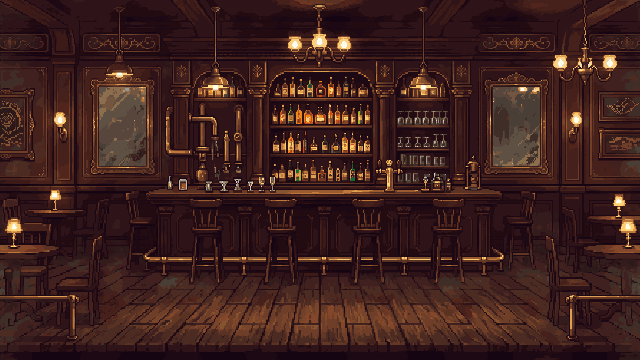
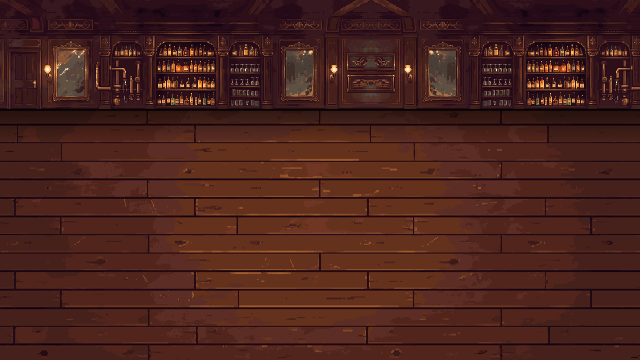
Бар «Härtezeichen» — вид чуть сверху (как Undertale): низкая стена с подсвеченными бутылками, большой пол, стойка, табуреты и столы — предметы в рост рыцаря; у комнаты своя линия пола и глубина (floorTop, depth, tileLine)
Claude-Session: https://claude.ai/code/session_01NZaKJV7VXAQHZfGwN3MbH5

diff --git a/src/background.js b/src/background.js
@@ -21,7 +21,7 @@ const DECOR_IMG = {
 const PROP_IMG = { barrel: 1, crate: 2, sack: 1, chest: 1, bones: 2,
   sofa: 1, table: 1, chair: 1, armchair: 1, pew: 1, bench: 1, desk: 1, stool: 1, guardtable: 1, stall: 1, rug: 1,
   bedroll: 1, pot: 1, letter: 1, candles: 1, lute: 1, logbook: 1, bouquet: 1, loot: 1, fabric: 1, papers: 1, bookpile: 1, tripod: 1, pack: 1 };
-export const OBJECTS = ['prop_fountain', 'cam_glasses', 'cam_glasses_buzz', 'cam_redhead', 'cam_merc', 'prop_town_bench', 'prop_bar_table', 'prop_telescope', 'prop_log_seat', 'npc_bartender', 'vil_0', 'vil_1', 'vil_2', 'vil_3', 'vil_4', 'vil_5', 'vil_6', 'vil_7', 'vil_8', 'vil_9', 'vil_10', 'vil_11', 'vil_12', 'vil_13', 'vil_14', 'vil_15', 'vils_0', 'vils_1', 'vils_2', 'vils_3', 'vils_4', 'vils_5', 'vils_6', 'vils_7', 'vils_8', 'vils_9', 'vils_10', 'vils_12', 'vils_13', 'vils_14', 'vils_15',   // город главы 2 (v0.98): предметы площади, горожане (временные — потом камео)
+export const OBJECTS = ['prop_fountain', 'prop_bar_rug', 'prop_bar_counter', 'prop_bar_stool', 'prop_tavern_table', 'cam_glasses', 'cam_glasses_buzz', 'cam_redhead', 'cam_merc', 'prop_town_bench', 'prop_bar_table', 'prop_telescope', 'prop_log_seat', 'npc_bartender', 'vil_0', 'vil_1', 'vil_2', 'vil_3', 'vil_4', 'vil_5', 'vil_6', 'vil_7', 'vil_8', 'vil_9', 'vil_10', 'vil_11', 'vil_12', 'vil_13', 'vil_14', 'vil_15', 'vils_0', 'vils_1', 'vils_2', 'vils_3', 'vils_4', 'vils_5', 'vils_6', 'vils_7', 'vils_8', 'vils_9', 'vils_10', 'vils_12', 'vils_13', 'vils_14', 'vils_15',   // город главы 2 (v0.98): предметы площади, горожане (временные — потом камео)
   'door_wood', 'door_iron', 'door_bars', 'door_hole', 'prop_chest_open', 'bonepile', 'stairs', 'balustrade', 'stainedglass', 'prop_altar', 'lika_sit', 'lika_sit_1', 'lika_wave', 'prop_campfire', 'prop_campfire_pot', 'prop_cup', 'slime', 'slime_squash', 'slime_stretch', 'decor_chandelier', 'gate_bars', 'gate_door', 'decor_portrait_king', 'decor_portrait_mage', 'decor_sigil', 'decor_cracked', 'balcony_cliff', 'prop_candles_out', 'cat_sit', 'cat_sit_1', 'cat_sleep', 'cat_loaf', 'cat_lounge', 'cat_side', 'cat_groom', 'cat_stretch', 'cat_stand', 'cat_belly', 'knight_sit_seat', 'knight_sit_ground', 'priest_kneel', 'maid_ghost',
   ...Object.entries(PROP_IMG).flatMap(([t, n]) => Array.from({ length: n }, (_, i) => 'prop_' + t + (i ? '_' + i : ''))),
   ...Object.entries(DECOR_IMG).flatMap(([t, [n]]) => Array.from({ length: n }, (_, i) => 'decor_' + t + (i ? '_' + i : '')))];
@@ -209,7 +209,7 @@ export function buildRoom(room, height, floorTop, tiles = null) {
   const rand = () => (seed = (seed * 16807) % 2147483647) / 2147483647;
   if (tiles) {
     // куски подряд; вариант — по очереди с перемешиванием (первый, основной, — чаще)
-    const dy = floorTop * 2 - TILE_LINE, th = tiles[0].height;
+    const dy = floorTop * 2 - (room.tileLine ?? TILE_LINE), th = tiles[0].height;   // tileLine — своя линия пола у картинки (бар сверху)
     // парный холст нормалей (рельеф кладки + нормали предметов) — для живого света
     const nrm = tiles.normals?.every(n => n.complete && n.naturalWidth) ? tiles.normals : null;
     let ng = null;
@@ -858,7 +858,7 @@ function campfireFlames(g, x, gy, time) {
   }
 }
 
-const TOWN_PROPS = new Set(['fountain', 'town_bench', 'bar_table', 'telescope', 'log_seat']);
+const TOWN_PROPS = new Set(['fountain', 'town_bench', 'bar_table', 'telescope', 'log_seat', 'bar_rug', 'bar_counter', 'bar_stool', 'tavern_table']);
 export function drawProp(g, type, x, gy, opened = false, time = 0, seed = 0) {
   x = Math.round(x);
   if ((type === 'loot' || type === 'cup') && opened) return;   // подобрали

diff --git a/src/config.js b/src/config.js
@@ -551,7 +551,7 @@ export const TOWNSFOLK = [
 for (const [img, name, sit] of TOWNSFOLK) NPC_TYPES['t_' + img] = { name, img, talk: 't_' + img, still: !!sit };
 // камео (v0.98): спрайт в позе по месту + портрет в разговоре (по фото владельца; одежда — под средневековье)
 Object.assign(NPC_TYPES, {
-  bartender: { name: 'Бармен', img: 'npc_bartender', talk: 'bartender_talk', cut: 17 },   // за стойкой — видно до пояса
+  bartender: { name: 'Бармен', img: 'npc_bartender', talk: 'bartender_talk' },   // за стойкой (стойка — предмет перед ним)
   cam_glasses: { name: 'Иэн', img: 'cam_glasses', imgAlt: ['glasses_buzz', 'cam_glasses_buzz'], still: true, faceRight: true,   // сидит за столом (стол — на картинке)
     talks: [{ id: 'glasses_after', if: 'glasses_buzz' }, { id: 'glasses_wait', if: 'glasses_asked' }], talk: 'glasses_meet' },
   cam_redhead: { name: 'Ксандра', img: 'cam_redhead', still: true, faceRight: true, talk: 'redhead_talk' },
@@ -1141,13 +1141,23 @@ export const ROOMS = {
       { type: 't_vil_12', x: 470, z: 22 }, { type: 't_vil_0', x: 560, z: 14 }, { type: 't_vil_3', x: 140, z: 20 },
     ],
   },
+  // бар — вид чуть сверху, как в Undertale (владелец, 22.10): низкая задняя стена, большой пол; стойка, табуреты и столы — предметы
+  // в рост рыцаря (за ними можно пройти). Комната задаёт свою линию пола и глубину (floorTop, depth; tileLine — линия пола на картинке).
   town_bar: {
     name: 'Бар «Härtezeichen»', chapter: 2, tiles: 'town_bar', tileCount: 1, length: 320, day: true, ceiling: false, torches: [],
-    doors: [{ id: 'out', x: 22, kind: 'none', stairs: true, to: 'town_square', toDoor: 'bar', name: 'На площадь' }],
+    floorTop: 55, depth: 112, tileLine: 110,
+    doors: [{ id: 'out', x: 35, kind: 'none', stairs: true, to: 'town_square', toDoor: 'bar', name: 'На площадь' }],
+    props: [
+      { type: 'bar_rug', x: 165, z: 52, flat: true },
+      { type: 'bar_counter', x: 140, z: 12 }, { type: 'bar_counter', x: 190, z: 12 },
+      { type: 'bar_stool', x: 148, z: 18 }, { type: 'bar_stool', x: 168, z: 18 }, { type: 'bar_stool', x: 188, z: 18 }, { type: 'bar_stool', x: 208, z: 18 },
+      { type: 'tavern_table', x: 62, z: 62 }, { type: 'tavern_table', x: 262, z: 58 }, { type: 'tavern_table', x: 96, z: 100 }, { type: 'tavern_table', x: 236, z: 102 },
+    ],
     npcs: [
-      { type: 'bartender', x: 170, z: 0, lift: 18 },
-      { type: 'cam_merc', x: 96, z: 3, facing: 1 },   // сюжетный наёмник — у стойки слева
-      { type: 't_vils_12', x: 292, z: 14 }, { type: 't_vils_2', x: 30, z: 16, facing: 1 },
+      { type: 'bartender', x: 168, z: 3 },   // за стойкой
+      { type: 'cam_merc', x: 124, z: 19, facing: 1 },   // Виктор — у стойки слева (табурет — на его картинке)
+      { type: 't_vils_12', x: 249, z: 58.5, facing: 1 }, { type: 't_vils_2', x: 275, z: 58.5 },
+      { type: 't_vils_14', x: 83, z: 100.5, facing: 1 }, { type: 't_vils_4', x: 223, z: 102.5, facing: 1 }, { type: 't_vils_8', x: 249, z: 102.5 },
     ],
   },
   town_armory: {

diff --git a/src/main.js b/src/main.js
@@ -42,6 +42,7 @@ const KEYS = {
 };
 // где на экране земля под бойцом на глубине z, и высота удара над ней
 const groundY = z => CONFIG.floorTop + 6 + z;
+const BASE_FLOOR = CONFIG.floorTop, BASE_DEPTH = CONFIG.depth;   // у комнаты может быть своя линия пола и глубина (бар — вид сверху, v0.98)
 const HIT_UP = { high: 34, mid: 22, low: 9 };
 const clashY = (h, z) => groundY(z) - HIT_UP[h];
 const near = (a, b) => Math.abs(a.z - b.z) <= CONFIG.depthReach;
@@ -163,6 +164,8 @@ function loadRoom(id, at) {
   game.climb = null;
   game.blueFireAt = null;
   game.coinFx = [];
+  CONFIG.floorTop = ROOMS[id].floorTop ?? BASE_FLOOR;
+  CONFIG.depth = ROOMS[id].depth ?? BASE_DEPTH;
   game.flags['map_' + id] = true;  // для карты: где побывал
   for (const [f, at] of Object.entries(game.flags.later ?? {})) if ((game.flags.playTime ?? 0) >= at) { game.flags[f] = true; delete game.flags.later[f]; }
   const floor = ROOMS[id].floor ?? 1;

diff --git a/docs/chapter2.md b/docs/chapter2.md
@@ -85,8 +85,8 @@
 - **Бармен** — пока элегантный, начала XX века (монокль, часы); владелец придумает позже; покупки в баре — позже.
 - **Шахбану** — бариста кофейни «Vertrauen» (по фото, с разрешения); окно как у Лики: виды кофе, бусты, пара чаёв, матча. Ждём эскиз кофейни от владельца.
 - **Стася** — сидит снаружи кофейни, читает книгу, на столе чёрный кофе, наполовину выпит.
-- **Оружейная** — как кофейня: картина (как покои принцессы) + окно торговли (как Лика), два продавца на выбор: **Захария** — оружие и доспехи, **Полли** — артефакты. **Лика** стоит перед входом в оружейную.
+- **Оружейная** — как кофейня: картина (как покои принцессы) + окно торговли (как Лика), два продавца на выбор: **Полли** — оружие и доспехи, **Захария** — артефакты. **Лика** стоит перед входом в оружейную.
 - **Четыре туза:** Полли, Захария, Лика — тузы; по ним собирается броня (как бубновый туз): «броня червей» и т. д.; пиковый туз — главный герой, секретный сет — в самом конце (тузы раскроются в главе 5). Их можно встретить и вооружёнными.
-- **Поляна с телескопом:** три девушки — блондинка (золотисто-пепельные, слегка вьющиеся, чуть ниже плеч, тёмные корни, без чёлки) стоит у телескопа; на бревне — девушка монголоидной внешности (мягкие пропорции, чёрные объёмные волосы до лопаток, без чёлки, кожа чуть темнее) и ещё одна (по фото). Стиль — дерзкий, «нью-йоркский», в средневековом наряде.
+- **Поляна с телескопом:** три девушки — блондинка (золотисто-пепельные, слегка вьющиеся, чуть ниже плеч, тёмные корни, без чёлки) стоит у телескопа (**Люция**); на бревне — **Туяа**, девушка монголоидной внешности (мягкие пропорции, чёрные объёмные волосы до лопаток, без чёлки, кожа чуть темнее) и ещё одна (по фото) — **Полли** (уточнить у владельца). Стиль — дерзкий, «нью-йоркский», в средневековом наряде.
 
 **Вид комнат:** улицы — сбоку, как в главе 1; **бар** — вид чуть сверху, как в Undertale: большой пол, стойка и столы — предметы в рост рыцаря (комната задаёт свою линию пола `floorTop` и глубину `depth`). **Кофейня и оружейная внутри** — картина с вещами и людьми (клик — осмотр/разговор/торговля), как покои принцессы + лавка Лики.
